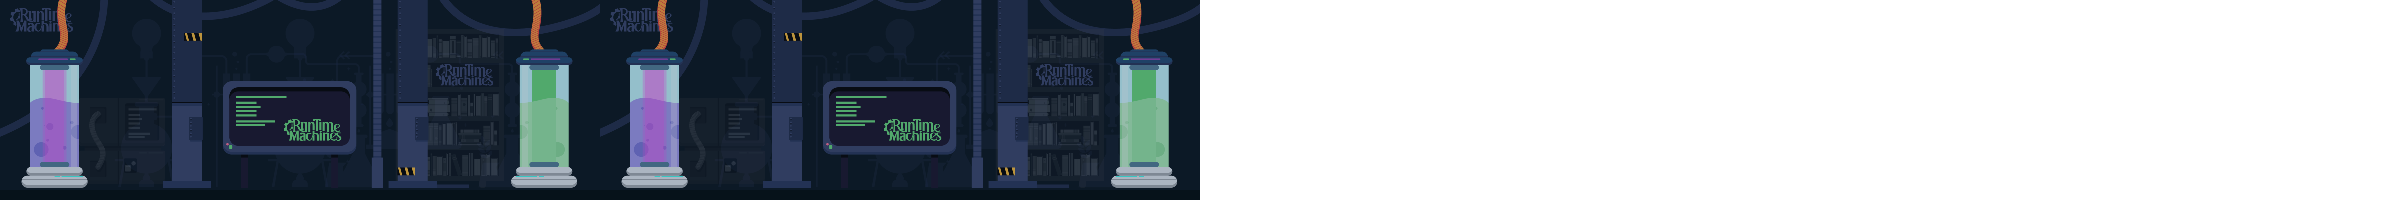
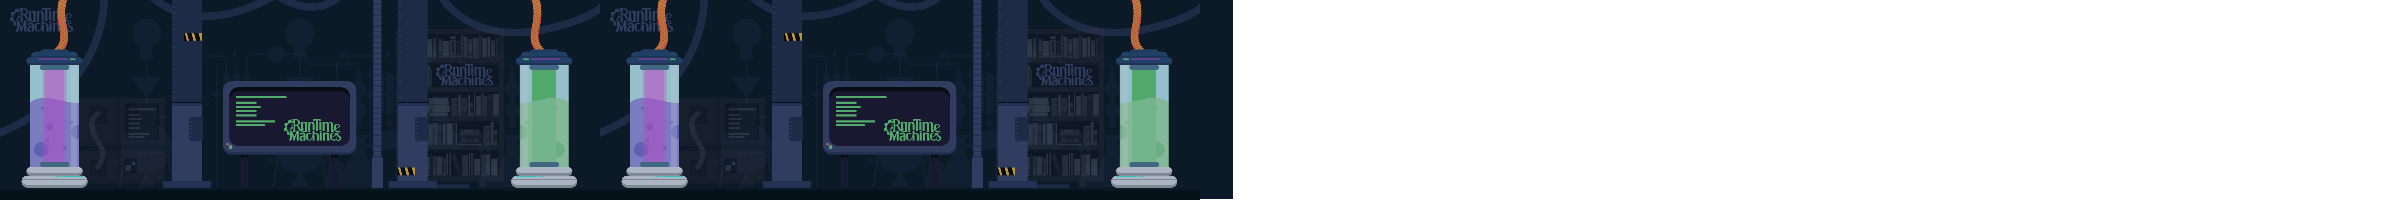
makes seamless bg

Changed region(s): [[0.5, 0.0, 0.5312, 1.0]]

diff --git a/public/trex-runner/js/horizonline.js b/public/trex-runner/js/horizonline.js
@@ -79,13 +79,13 @@
       this.canvasCtx.drawImage(Runner.background[i], sourceXPos[0],
         10,
         600, 200,
-        xPos[0], -40,
+        xPos[0], -39,
         600, 200);
 
       this.canvasCtx.drawImage(Runner.background[i], sourceXPos[1],
         10,
-        600 - 5, 200,
-        xPos[1], -40,
+        600, 200,
+        xPos[1], -39,
         600, 200);
     },
 
